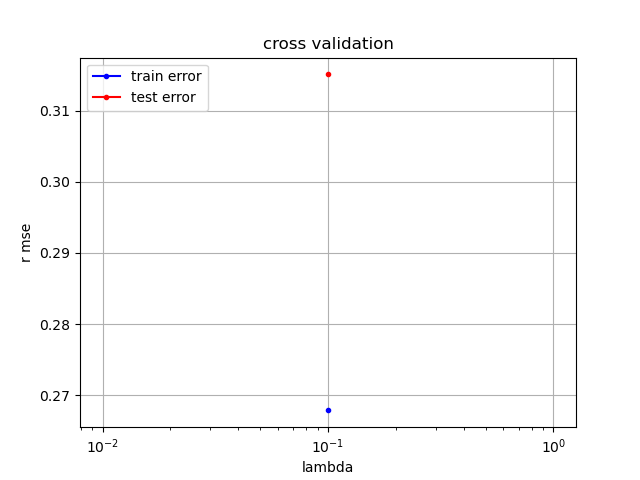
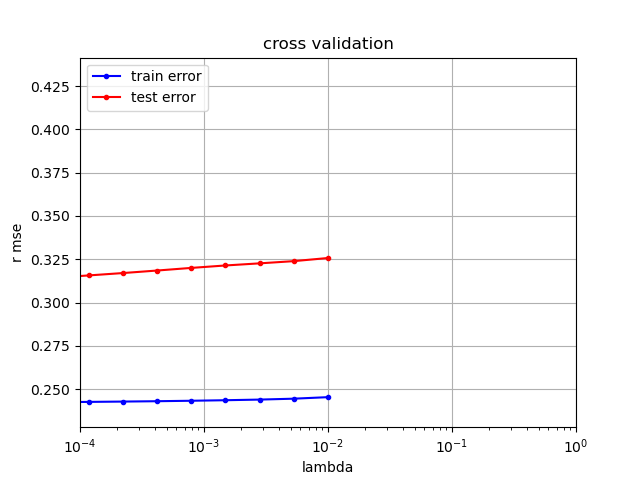
First ex, lab 4

diff --git a/labs/ex04/template/build_polynomial.py b/labs/ex04/template/build_polynomial.py
@@ -5,23 +5,17 @@ import numpy as np
 
 
 def build_poly(x, degree):
-    """polynomial basis functions for input data x, for j=0 up to j=degree.
-
-    Args:
-        x: numpy array of shape (N,), N is the number of samples.
-        degree: integer.
-
-    Returns:
-        poly: numpy array of shape (N,d+1)
-
-    >>> build_poly(np.array([0.0, 1.5]), 2)
-    array([[1.  , 0.  , 0.  ],
-           [1.  , 1.5 , 2.25]])
-    """
+    """polynomial basis functions for input data x, for j=0 up to j=degree."""
     # ***************************************************
-    # COPY YOUR CODE FROM EX03 HERE
+    # INSERT YOUR CODE HERE
     # polynomial basis function: TODO
     # this function should return the matrix formed
     # by applying the polynomial basis to the input data
     # ***************************************************
-    raise NotImplementedError
+    N = x.shape[0]
+    poly = np.zeros ((N, degree +1))
+    
+    for j in range (degree + 1):
+        poly[:,j] = x**j
+        
+    return poly

diff --git a/labs/ex04/template/least_squares.py b/labs/ex04/template/least_squares.py
@@ -22,9 +22,12 @@ def least_squares(y, tx):
     >>> least_squares(np.array([0.1,0.2]), np.array([[2.3, 3.2], [1., 0.1]]))
     (array([ 0.21212121, -0.12121212]), 8.666684749742561e-33)
     """
-    # ***************************************************
-    # COPY YOUR CODE FROM EX03 HERE
-    # least squares: TODO
-    # returns optimal weights, MSE
-    # ***************************************************
-    raise NotImplementedError
+    A = tx.T @ tx
+    b = tx.T @ y
+    
+    w = np.linalg.solve(A, b)
+    
+    e = y - tx @ w
+    mse = (1/(2*len(y))) * np.dot(e,e)
+    
+    return w, mse

diff --git a/labs/ex04/template/ridge_regression.py b/labs/ex04/template/ridge_regression.py
@@ -23,8 +23,8 @@ def ridge_regression(y, tx, lambda_):
     >>> ridge_regression(np.array([0.1,0.2]), np.array([[2.3, 3.2], [1., 0.1]]), 1)
     array([0.03947092, 0.00319628])
     """
-    # ***************************************************
-    # COPY YOUR CODE FROM EX03 HERE
-    # ridge regression: TODO
-    # ***************************************************
-    raise NotImplementedError
+    D = tx.shape[1]
+    A = tx.T @ tx + 2 * tx.shape[0]*lambda_ * np.identity(D)
+    b = tx.T.dot(y) 
+    w = np.linalg.solve(A, b)  # solve A w = b
+    return w

diff --git a/labs/ex04/template/plots.py b/labs/ex04/template/plots.py
@@ -10,11 +10,12 @@ def cross_validation_visualization(lambds, rmse_tr, rmse_te):
     plt.semilogx(lambds, rmse_te, marker=".", color="r", label="test error")
     plt.xlabel("lambda")
     plt.ylabel("r mse")
-    # plt.xlim(1e-4, 1)
+    plt.xlim(1e-4, 1)
     plt.title("cross validation")
     plt.legend(loc=2)
     plt.grid(True)
     plt.savefig("cross_validation")
+    plt.show()
 
 
 def bias_variance_decomposition_visualization(degrees, rmse_tr, rmse_te):
